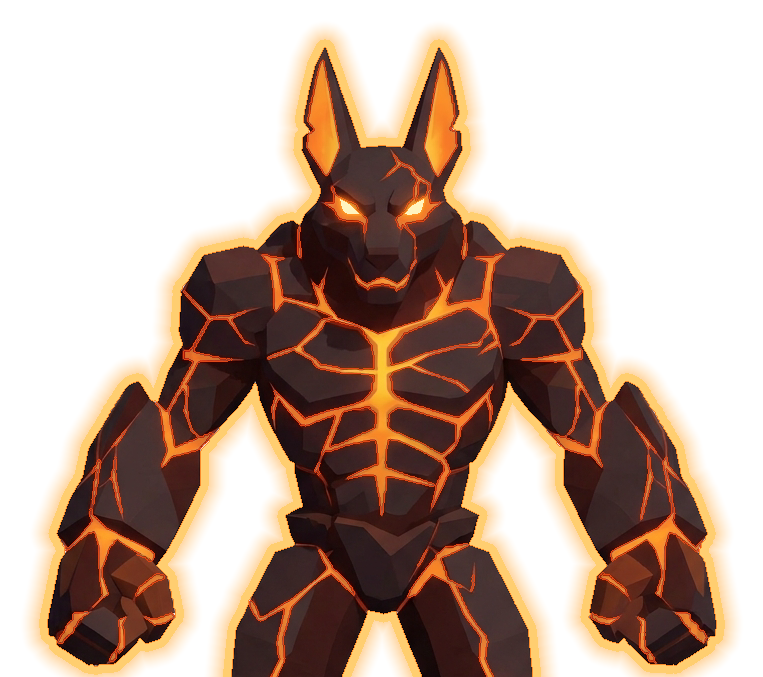
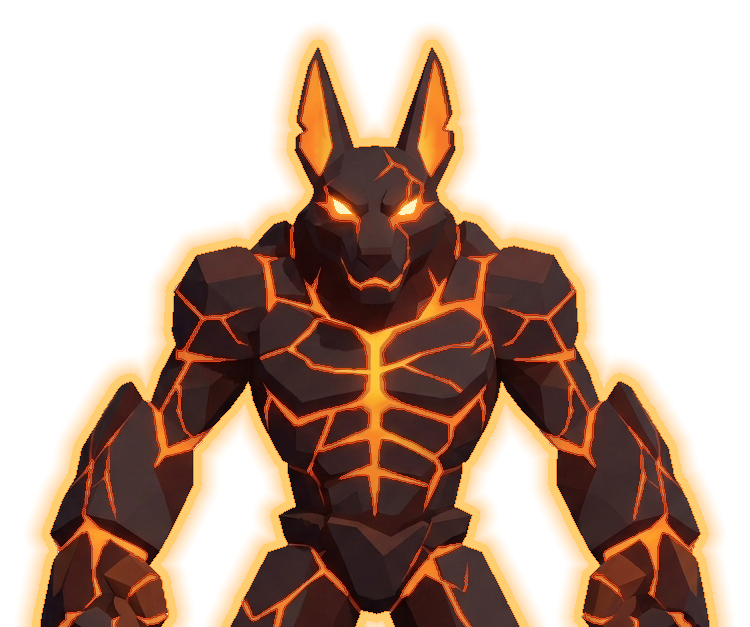
Claude checker iter 08: jackal cut at the waist like TARGET, no hips or thighs above the lava
Claude-Session: https://claude.ai/code/session_01WTSFXQ2z2oUSLMA5HNArEB

diff --git a/tools/beast_sprite.py b/tools/beast_sprite.py
@@ -40,10 +40,13 @@ BEASTS = {
         # The drawing is cut at concept row `cut`; `sink` px of it sit below
         # the floor so the cut edge is hidden. The route now starts at the
         # hips and climbs the flank, chest and neck to the face.
-        "cut": 640,
+        # Checker iter 08 (2026-10-07): at 640 the hips, crotch and thighs
+        # stood above the lava, where TARGET cuts the jackal at the waist;
+        # now just under the belt.
+        "cut": 590,
         "sink": 18,
         "holds": {
-            0: (600, 615), 1: (606, 560), 2: (590, 500),
+            0: (598, 568), 1: (600, 535), 2: (590, 500),
             3: (560, 430), 4: (535, 330), 5: (512, 225),
         },
         "ledges": [0, 2, 3, 4],

diff --git a/design/match-log/log.md b/design/match-log/log.md
@@ -41,3 +41,7 @@ Stalled on the pose: every critic since iter 01 ranks the raised flaming fist fi
 Nick has not answered the pose question, so the loop carries on below it: the ruled-out items are skipped and the top remaining difference is fixed.
 Critic top 3: (1) MAJOR pose; (2) MAJOR fist fire; (3) MAJOR extra UI. Then (4) MAJOR stone route, (5) MODERATE proportions, (6) MODERATE eyes a dim orange slit where TARGET's are the hottest point on the head.
 Skipped 1–5 under the rulings above (Nick's pose call, the HUD, the route Nick set, the concept's proportions). Fixed 6 in `tools/beast_sprite.py`: new per-beast `eyes` boxes; each eye gets a near-white core (255,244,190), a hot orange ring (255,150,40) and a 7 px orange glow over the rock.
+
+## iter 08 — 2026-10-07 (pair iter-09.png; after: iter-10.png)
+Critic top 3: (1) MAJOR pose; (2) MAJOR fist fire; (3) MAJOR proportions (hunched, asymmetric brute). Its 4th: MAJOR scale/framing — hips, crotch and thighs show above the lava, where TARGET is cut at the waist.
+Skipped 1–3 under the rulings above. Fixed 4 in `tools/beast_sprite.py`: the cut moved from concept row 640 to 590, just under the belt. Holds 0–1 moved up to (598,568) and (600,535) so they stay above the cut. The body is refit to the same 1.90, so the jackal is also a little larger on screen.
